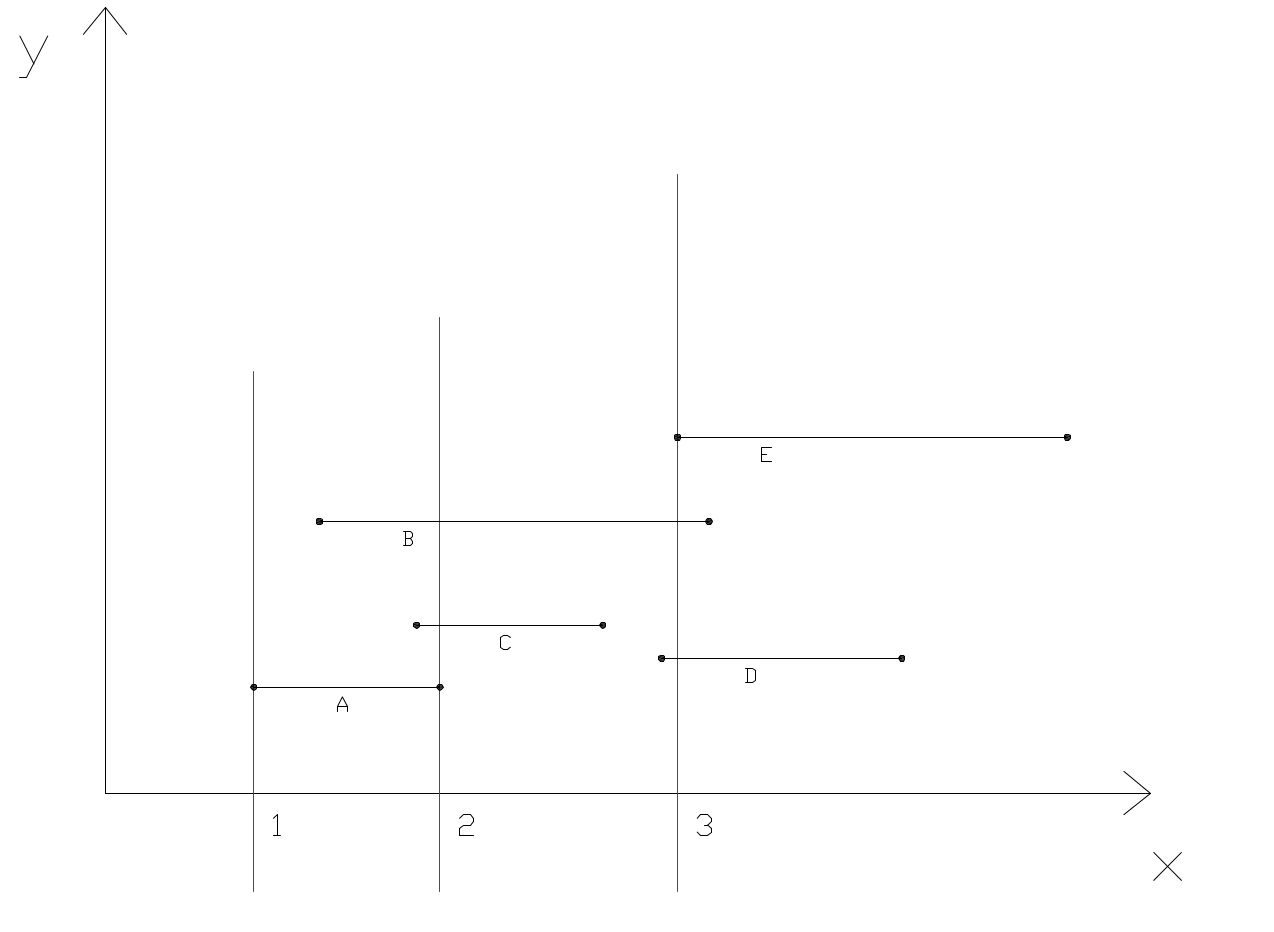
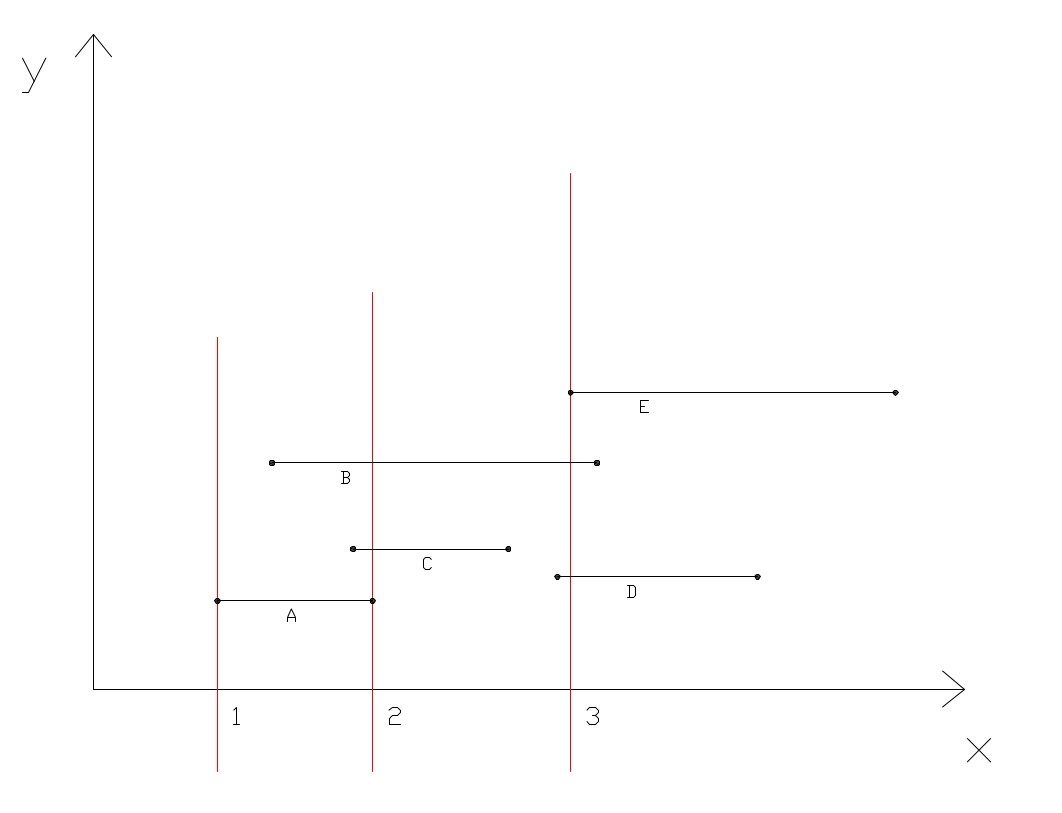
laatst

diff --git a/verslag/verslag.tex b/verslag/verslag.tex
@@ -93,6 +93,12 @@ Voor het volgende algoritme stellen we elke cirkel voor als een lijnstuk met als
 \\
 \\
 Dit algoritme gebruikt een doorlooplijn. De gesorteerde lijst wordt afgegaan, telkens wanneer we een links punt van een cirkel tegenkomen voegen we dit toe aan een tweede lijst. Indien we een rechts punt tegenkomen wordt dit punt uit deze tweede lijst verwijderd. Vanaf de moment dat er een cirkel wordt toegevoegd aan de tweede lijst dan wordt deze cirkel met alle andere cirkels in de lijst vergeleken om te controleren of er geen snijpunten zijn.
+
+\begin{figure}[H]
+\centering
+\includegraphics[width=0.65\textwidth]{algo2.png}
+\end{figure}
+In bovenstaande figuur kunnen we het algoritme in werking zien. De rode lijn is de doorlooplijn. Bij punt 1 wordt voor de eerste maal iets toegevoegd, op punt twee wordt een cirkel uit lijst C gehaald. Bij het toevoegen van lijnstuk E in punt 3 wordt er gezocht naar snijpunten met B en D.
 \subsubsection{Hoogniveau beschrijving}
 \begin{algorithm}[H]
 \caption{doorlooplijnalgoritme met rekencomplexiteit $O(N^2)$}
@@ -119,7 +125,11 @@ Dit algoritme gebruikt een doorlooplijn. De gesorteerde lijst wordt afgegaan, te
 Het punt waar de doorlooplijn zich bevindt wordt een evenpoint genoemd.\\
 De methode \verb|BerekenSnijpunten(Cirkel c)| is net hetzelfde als in algortime 1.
 \subsubsection{Complexiteit}
-De complexiteit wordt wederom bepaald door het aantal keer dat we twee cirkels controleren of ze al dan niet snijden. Aangezien deze controle enkel gebeurt bij linkse punten van een lijnstuk dat een cirkel voorstelt, zijn er N controles (uit de lijst van $2\cdot N$ elementen). Bij elke toevoeging van een cirkel op het moment van een eventpoint wordt deze cirkel vergeleken met alle andere cirkels die op dat moment worden bijgehouden door de sweepline in lijst C. In het slechste geval krijgen we dus een scenario waarbij alle rechterpunten van de lijnstukken samenvallen. Hierdoor moeten we opnieuw net zoals in algoritme 1 $$\frac{N*(N-1)}{2}$$ vergelijkingen maken aangezien er nooit een lijnstuk kan worden verwijderd uit lijst C.
+De complexiteit wordt wederom bepaald door het aantal keer dat we twee cirkels controleren of ze al dan niet snijden. Aangezien deze controle enkel gebeurt bij linkse punten van een lijnstuk dat een cirkel voorstelt, zijn er N controles (uit de lijst van $2\cdot N$ elementen). Bij elke toevoeging van een cirkel op het moment van een eventpoint wordt deze cirkel vergeleken met alle andere cirkels die op dat moment worden bijgehouden door de sweepline in lijst C. In het slechste geval krijgen we dus een scenario waarbij alle rechterpunten van de lijnstukken samenvallen. Hierdoor moeten we opnieuw net zoals in algoritme 1 $$\frac{N*(N-1)}{2}$$ vergelijkingen maken aangezien er nooit een lijnstuk kan worden verwijderd uit lijst C. Het probleem wordt goed geïllustreerd door onderstaande afbeelding.
+\begin{figure}[H]
+\centering
+\includegraphics[width=0.5\textwidth]{algo2_probleem.png}
+\end{figure}
 \subsubsection{Randvoorwaarden}
 Voor deze implementatie ondersteunen we bijna elke combinatie van de volgende randgevallen:
 \begin{enumerate}
